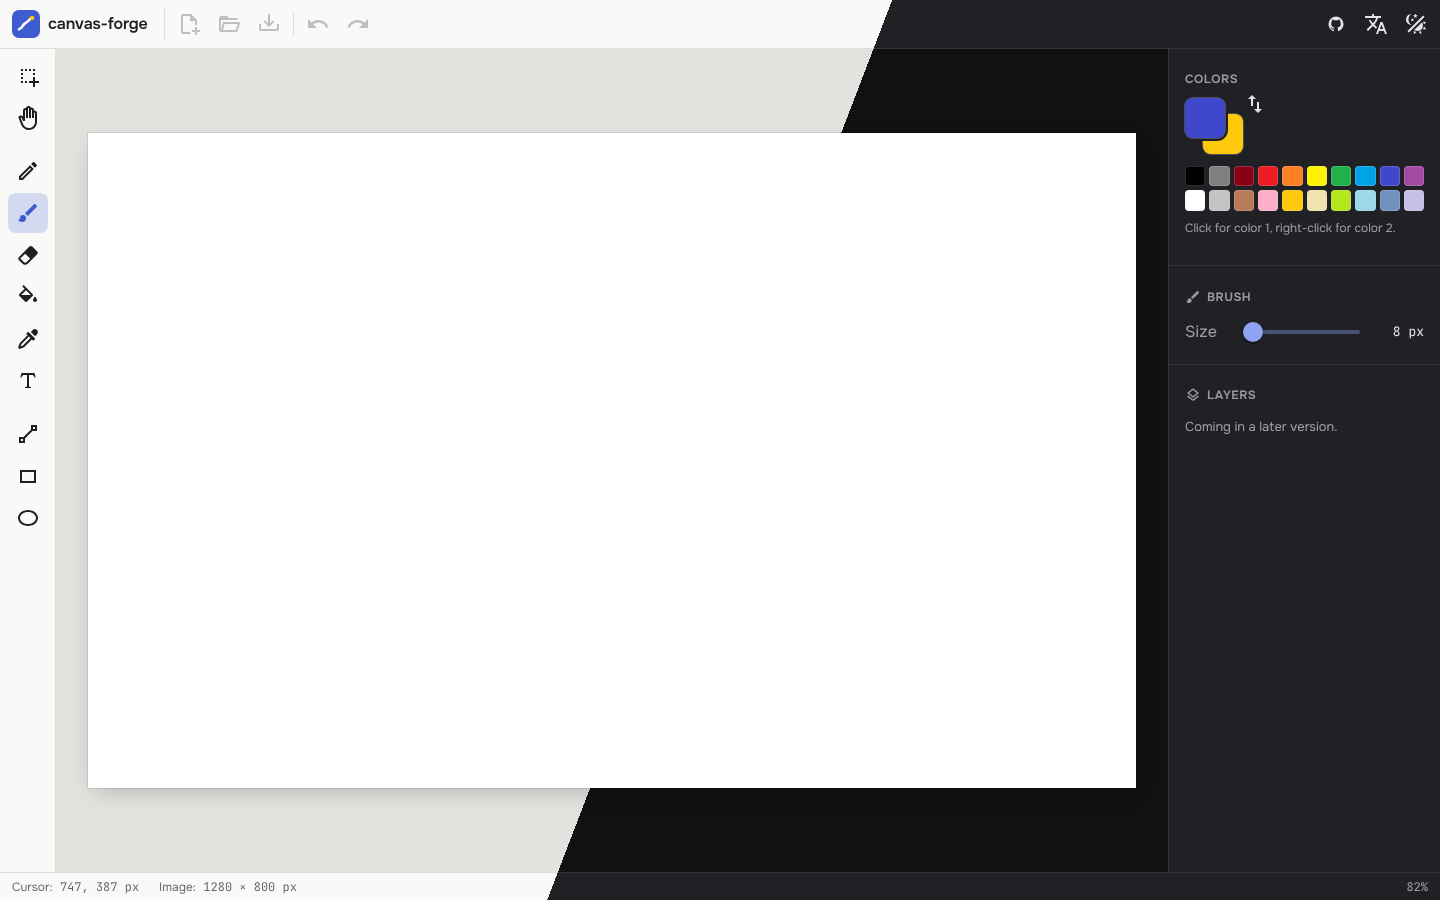
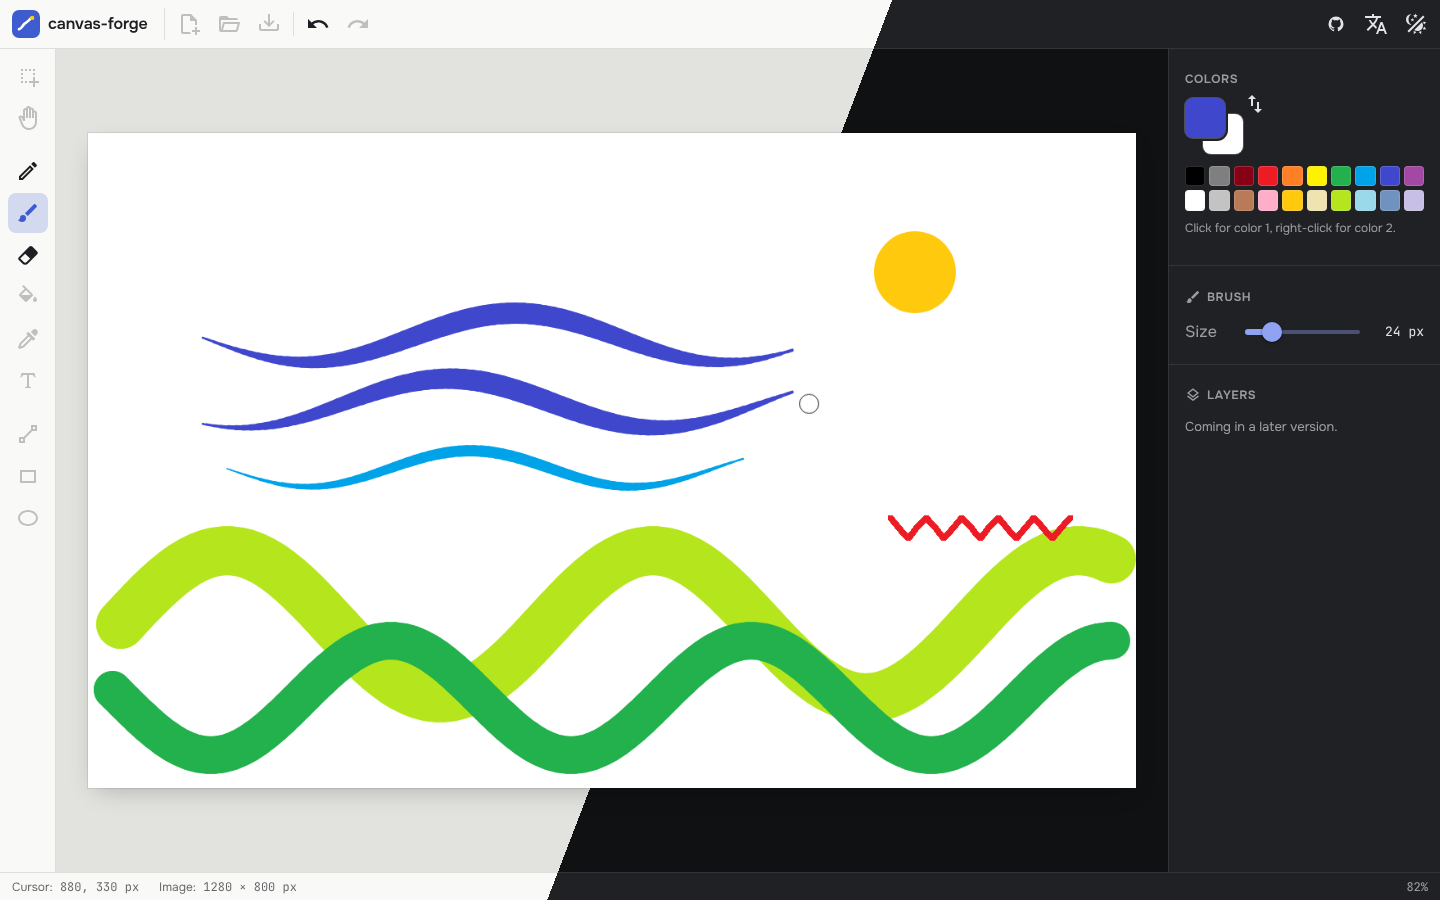
docs: update README for the drawing engine
New features, tests section, CI badge, history shortcuts, engine in the
project structure, stage 2 marked done, and a screenshot with a drawing.

diff --git a/README.ru.md b/README.ru.md
@@ -2,20 +2,30 @@
 
 [English version](README.md)
 
+[![CI](https://github.com/it2konst/canvas-forge/actions/workflows/ci.yml/badge.svg)](https://github.com/it2konst/canvas-forge/actions/workflows/ci.yml)
+
 Графический редактор в духе Paint, который работает прямо в браузере. Привычные инструменты, классическая палитра и знакомые горячие клавиши в спокойном интерфейсе, в котором удобно и днём, и ночью. Изображения остаются на вашем устройстве и никуда не загружаются.
 
 Написан с нуля на Vue 3 и TypeScript.
 
 ![canvas-forge в светлой и тёмной темах](docs/screenshots/overview.png)
 
-> **В разработке.** Оболочка редактора готова: раскладка, панели, темы и языки. Рисование появится на следующих этапах [плана](#план).
+> **В разработке.** Уже можно рисовать карандашом, кистью и ластиком, с нажимом пера и отменой действий. Фигуры, заливка, файлы и остальное появятся на следующих этапах [плана](#план).
 
 ## Возможности
 
 **Готово**
 
+- Карандаш: жёсткие квадратные пиксели без сглаживания, подходит для пиксель-арта
+- Кисть: круглая и сглаженная, линия строится кривыми, поэтому быстрые штрихи получаются без углов; толщина зависит от нажима пера
+- Ластик: рисует цветом 2, как в Paint
+- Левая кнопка рисует цветом 1, правая цветом 2
+- Отмена и повтор для каждого штриха (до 100 шагов в пределах 256 МБ); Esc отменяет штрих, который рисуется прямо сейчас
+- Курсор показывает размер инструмента с учётом масштаба, у карандаша и ластика он привязан к пиксельной сетке
+- Плавный ввод: используются все точки, которые сообщает устройство, а штрих продолжается и за краем холста
+- Чёткость на HiDPI-экранах: холст совпадает с физическими пикселями
 - Раскладка редактора: панель инструментов, панель свойств, область холста и строка состояния
-- 11 инструментов в трёх группах (выделение и навигация, рисование, фигуры), у каждого своя клавиша
+- 11 инструментов в трёх группах, у каждого своя клавиша; ещё не готовые инструменты показаны неактивными
 - Цвет 1 и цвет 2 с кнопкой обмена и классическая палитра из 20 цветов: клик выбирает цвет 1, правый клик выбирает цвет 2
 - Размер кисти
 - Строка состояния: позиция курсора в пикселях изображения, размер изображения и масштаб
@@ -27,7 +37,6 @@
 
 **В планах**
 
-- Карандаш, кисть и ластик с учётом нажима пера, отмена и повтор действий
 - Линия, прямоугольник, эллипс, заливка, пипетка и текст
 - Масштаб и перемещение холста, изменение размера
 - Открытие, вставка и перетаскивание изображений; сохранение в PNG, JPEG или WebP; автосохранение в браузере
@@ -52,7 +61,9 @@
 | Состояние | Pinia, VueUse                                         |
 | i18n      | vue-i18n, подключён к Vuetify через адаптер           |
 | Шрифты    | Onest и JetBrains Mono, локально через Fontsource     |
+| Рисование | Canvas 2D, Pointer Events с нажимом пера              |
 | Качество  | ESLint (flat config), Prettier, vue-tsc               |
+| Тесты     | Vitest, GitHub Actions CI                             |
 | Пакеты    | pnpm                                                  |
 | Хостинг   | Vercel                                                |
 
@@ -75,8 +86,27 @@ pnpm dev
 | `pnpm format`       | Форматирует проект через Prettier          |
 | `pnpm format:check` | Проверяет форматирование                   |
 | `pnpm type-check`   | Запускает vue-tsc                          |
+| `pnpm test`         | Запускает тесты один раз                   |
+| `pnpm test:watch`   | Перезапускает тесты при изменениях         |
+| `pnpm coverage`     | Тесты с отчётом о покрытии                 |
+
+## Тесты
+
+Юнит-тесты работают на Vitest в Node и запускаются при каждом push в GitHub Actions. Движок рисования написан на чистом TypeScript, поэтому его ядро проверяется без браузера:
+
+- геометрия: работа с прямоугольниками и пиксельные линии без разрывов
+- история: порядок отмены и повтора, ветка повтора, лимиты по шагам и памяти
+- инструменты: отпечатки карандаша и ластика, точка кистью, область, которую сообщает штрих, утончение линии при слабом нажиме
 
 ## Горячие клавиши
+
+| Клавиши                  | Действие               |
+| ------------------------ | ---------------------- |
+| `Ctrl+Z`                 | Отменить               |
+| `Ctrl+Y`, `Ctrl+Shift+Z` | Повторить              |
+| `Esc`                    | Отменить текущий штрих |
+
+На macOS вместо `Ctrl` используется `Cmd`. Инструменты:
 
 | Клавиша | Инструмент | Клавиша | Инструмент    |
 | ------- | ---------- | ------- | ------------- |
@@ -94,24 +124,26 @@ src/
   components/
     layout/      шапка, панель инструментов, холст, строка состояния, меню темы и языка
     panels/      панель свойств и её разделы (цвета, кисть, слои)
-  composables/   синхронизация темы и языка, горячие клавиши инструментов
+  composables/   синхронизация темы и языка, ввод на холсте, горячие клавиши
+  engine/        движок рисования на чистом TypeScript: документ, ввод, штрихи, история
+    tools/       карандаш и ластик (жёсткий квадрат), кисть (круглая, с нажимом)
   i18n/          настройка vue-i18n и тексты EN/RU
   plugins/       настройка Vuetify
   stores/        Pinia: состояние редактора, настройки, интерфейс
   theme/         светлая и тёмная палитры
-  tools/         каталог инструментов и палитра по умолчанию
+  tools/         каталог инструментов, их реализации в движке, палитра по умолчанию
   icons.ts       все иконки приложения в одном месте
 ```
 
 ## План
 
 1. ~~Оболочка: раскладка и панели, темы, EN/RU~~ ✓
-2. Движок рисования: холст, карандаш, кисть, ластик, нажим пера, отмена и повтор
+2. ~~Движок рисования: холст, карандаш, кисть, ластик, нажим пера, отмена и повтор, тесты и CI~~ ✓
 3. Фигуры и заливка: линия, прямоугольник, эллипс, заливка, пипетка, текст
 4. Масштаб и перемещение, размер холста
 5. Файлы: открытие, вставка, перетаскивание, сохранение в PNG / JPEG / WebP, автосохранение
 6. Выделение: перемещение, копирование, вырезание, вставка, обрезка
-7. Слои, тесты и CI
+7. Слои
 8. PWA: офлайн, установка, открытие изображений приложением
 
 ## Автор

diff --git a/README.md b/README.md
@@ -2,20 +2,30 @@
 
 [Русская версия](README.ru.md)
 
+[![CI](https://github.com/it2konst/canvas-forge/actions/workflows/ci.yml/badge.svg)](https://github.com/it2konst/canvas-forge/actions/workflows/ci.yml)
+
 A Paint-style image editor that runs entirely in the browser. Familiar tools, a classic palette and the shortcuts you expect, in a calm interface that works by day and by night. Images stay on your device and are never uploaded anywhere.
 
 Written from scratch with Vue 3 and TypeScript.
 
 ![canvas-forge in light and dark themes](docs/screenshots/overview.png)
 
-> **Work in progress.** The editor shell is ready: layout, panels, themes and languages. Drawing arrives in the next stages of the [roadmap](#roadmap).
+> **Work in progress.** You can already draw with the pencil, brush and eraser, with pen pressure and undo. Shapes, fill, files and more arrive in the next stages of the [roadmap](#roadmap).
 
 ## Features
 
 **Ready**
 
+- Pencil: hard-edged square pixels with no anti-aliasing, good for pixel art
+- Brush: round and anti-aliased, smoothed with curves so fast strokes have no corners; pen pressure sets the width
+- Eraser: paints with color 2, like in Paint
+- Left button paints with color 1, right button with color 2
+- Undo and redo for every stroke (up to 100 steps within a 256 MB budget); Escape cancels the stroke in progress
+- The cursor shows the tool size at the current zoom, snapped to the pixel grid for the hard tools
+- Smooth input: every pointer sample the hardware reports is used, strokes continue past the edge of the canvas
+- Sharp on HiDPI screens: the canvas matches physical pixels
 - Editor layout: tool rail, properties panel, canvas area and status bar
-- 11 tools in three groups (selection and navigation, painting, shapes), each with a single-key shortcut
+- 11 tools in three groups, each with a single-key shortcut; tools that are not implemented yet are shown disabled
 - Color 1 and color 2 with a swap button, and the classic 20-color palette: click for color 1, right-click for color 2
 - Brush size control
 - Status bar with the cursor position in image pixels, the image size and the zoom level
@@ -27,7 +37,6 @@ Written from scratch with Vue 3 and TypeScript.
 
 **Planned**
 
-- Pencil, brush and eraser with pen pressure, undo and redo
 - Line, rectangle, ellipse, flood fill, color picker and text
 - Zoom and pan, resize the canvas
 - Open, paste and drop images; save as PNG, JPEG or WebP; autosave in the browser
@@ -52,7 +61,9 @@ Written from scratch with Vue 3 and TypeScript.
 | State     | Pinia, VueUse                                         |
 | i18n      | vue-i18n, connected to Vuetify through its adapter    |
 | Fonts     | Onest and JetBrains Mono, self-hosted via Fontsource  |
+| Drawing   | Canvas 2D, Pointer Events with pen pressure           |
 | Quality   | ESLint (flat config), Prettier, vue-tsc               |
+| Tests     | Vitest, GitHub Actions CI                             |
 | Packages  | pnpm                                                  |
 | Hosting   | Vercel                                                |
 
@@ -75,8 +86,27 @@ pnpm dev
 | `pnpm format`       | Format the project with Prettier    |
 | `pnpm format:check` | Check formatting                    |
 | `pnpm type-check`   | Run vue-tsc                         |
+| `pnpm test`         | Run the unit tests once             |
+| `pnpm test:watch`   | Run tests on every change           |
+| `pnpm coverage`     | Tests with a coverage report        |
+
+## Tests
+
+Unit tests run with Vitest in Node and on every push in GitHub Actions. The drawing engine is plain TypeScript, so its core is tested without a browser:
+
+- geometry: rectangle helpers and whole-pixel lines with no gaps
+- history: undo and redo order, the redo branch, step and memory limits
+- tools: pencil and eraser stamps, brush dots, the area each stroke reports, pressure thinning
 
 ## Keyboard shortcuts
+
+| Keys                     | Action            |
+| ------------------------ | ----------------- |
+| `Ctrl+Z`                 | Undo              |
+| `Ctrl+Y`, `Ctrl+Shift+Z` | Redo              |
+| `Esc`                    | Cancel the stroke |
+
+On macOS use `Cmd` instead of `Ctrl`. Tools:
 
 | Key | Tool   | Key | Tool         |
 | --- | ------ | --- | ------------ |
@@ -94,24 +124,26 @@ src/
   components/
     layout/      header, tool rail, canvas area, status bar, theme and language menus
     panels/      properties panel and its sections (colors, brush, layers)
-  composables/   theme and language sync, tool shortcuts
+  composables/   theme and language sync, canvas input, keyboard shortcuts
+  engine/        drawing engine in plain TypeScript: document, input, strokes, history
+    tools/       pencil and eraser (hard square), brush (round, pressure)
   i18n/          vue-i18n setup and EN/RU messages
   plugins/       Vuetify setup
   stores/        Pinia: editor state, preferences, UI
   theme/         light and dark palettes
-  tools/         tool catalog and the default palette
+  tools/         tool catalog, which engine tool backs each one, default palette
   icons.ts       every icon the app uses, in one place
 ```
 
 ## Roadmap
 
 1. ~~Project shell: layout and panels, themes, EN/RU~~ ✓
-2. Drawing engine: canvas, pencil, brush, eraser, pen pressure, undo and redo
+2. ~~Drawing engine: canvas, pencil, brush, eraser, pen pressure, undo and redo, tests and CI~~ ✓
 3. Shapes and fill: line, rectangle, ellipse, flood fill, color picker, text
 4. Zoom and pan, canvas size
 5. Files: open, paste, drag and drop, save as PNG / JPEG / WebP, autosave
 6. Selection: move, copy, cut, paste, crop
-7. Layers, tests and CI
+7. Layers
 8. PWA: offline, install, open images with the app
 
 ## Author
